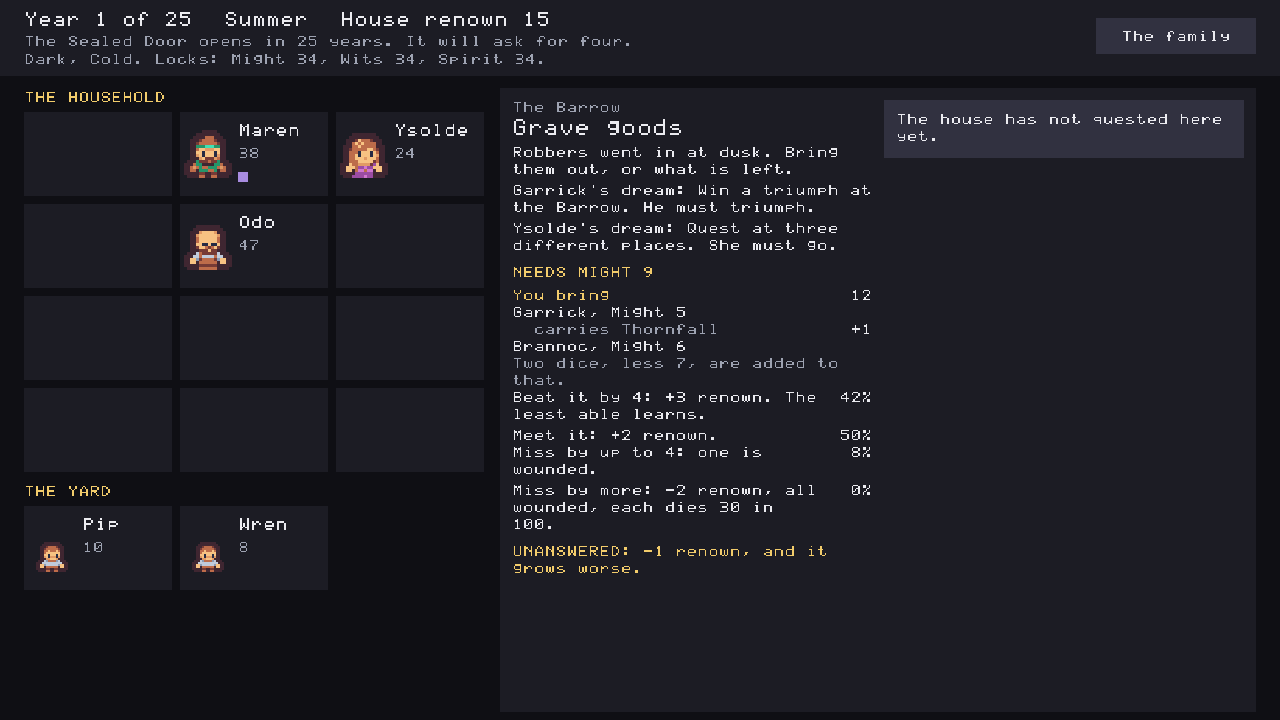
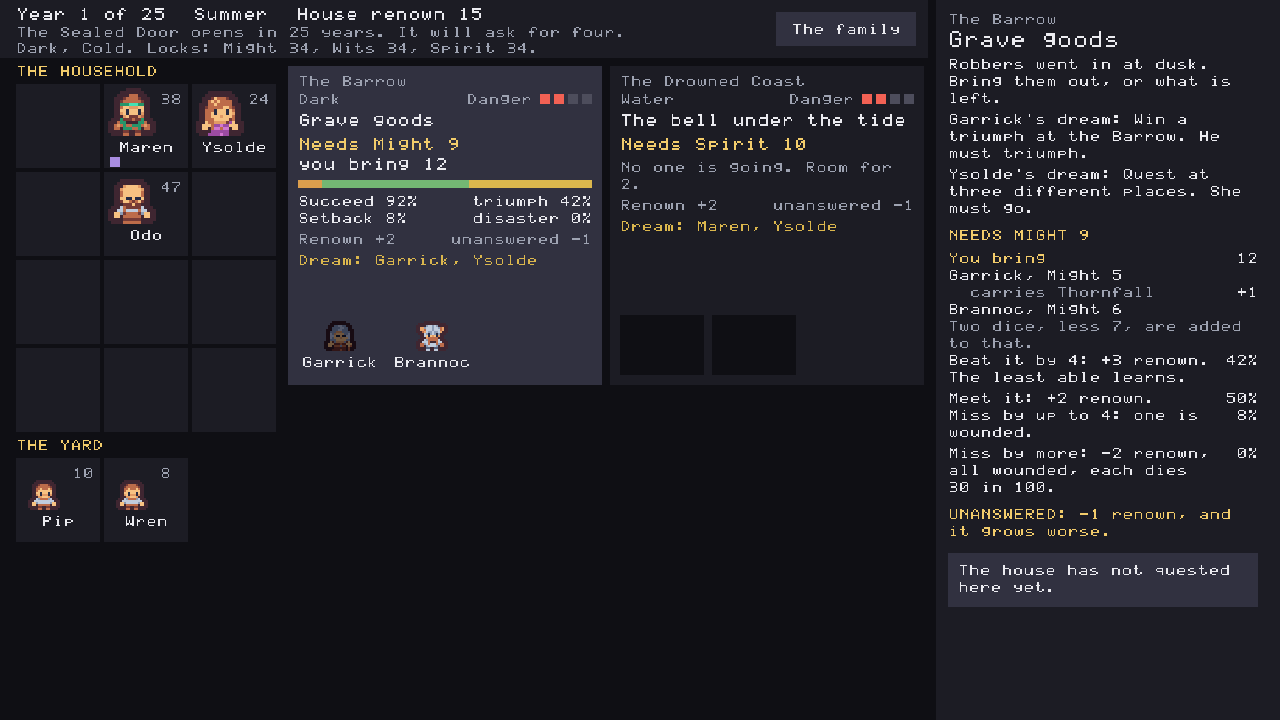
keifu: the dock's pictures, and FINDINGS for the review feedback
Screens re-taken on the docked layout; dock-idle.png and dock-scrolled.png
added. FINDINGS: the game's own notes for the dock (no new G-number, no KG).

Claude-Session: https://claude.ai/code/session_01Y8z4BgRYUwMJK5Qo1RB6Ae

diff --git a/games/keifu/FINDINGS.md b/games/keifu/FINDINGS.md
@@ -511,3 +511,56 @@ camera, the per-session recorder of G-043, the floors' text measurement) they ha
   Round two, the whole list again: **133 of 134 noticed** (tests alone 85, verify alone
   120). **The escape left is equivalent:** K8, "Room for N" told with the calm seats —
   that line shows only on an untroubled quest, where the seats are the calm seats.
+
+---
+
+## W4 review feedback: the sheet dock (owner, 2026-10-01)
+
+Presentation only, outside the spec's jurisdiction: no rule, constant, content string or
+spec file moved, no SPEC-GAPS entry and no new G-number. **Reading discipline:** `CLAUDE.md`,
+the `make-game` skill, the crate whole; from `docs/api/` the `Camera` reference, the
+"layout in constants" passage, `PointerState::scroll` and `InputEvent::Scrolled`. Outside
+the fence, disclosed: `tools/serve-web` and `tools/web-template/index.html`, read to learn
+what canvas the web check gives the page, and a headless Chromium dump of the built page's
+DOM that measured it (640x329 in the check's 640x480 window). **Engine source: not opened.**
+
+### The game's own
+
+- **The sheets have a dock; nothing is raised over anything.** This supersedes session 4's
+  "the board fills the right panel and the sheets are raised over it". The summer screen is
+  four regions that never overlap: the household and yard (cards 84x84, the figure over the
+  name over the dread pips), the board (2x2 cards of 314x319), the top bar over those two
+  (58 px), and the dock — the screen's full height at its right edge, 344 px wide
+  (`summer::SHEET`, `dock.rs`). The dock holds the sheet of the hero pointed at, of the
+  hero *in hand* mid-drag, or of the quest pointed at with its history; with none, the help
+  (which had been squeezed into the board's empty slots and had no home in a full board).
+- **Right, not bottom, and why.** Mid-drag is the critical state, and the card being held
+  over grows during a drag (the live preview adds "you bring", fear and refusal lines) — a
+  bottom dock takes its room from exactly those cards. Both sheets are also a single column
+  of lines, so a tall narrow dock reads and scrolls as a document; a short wide one would
+  have had to flow the sheet into columns that then scroll. Measured before choosing: the
+  longest founding sheet (Garrick) is 50 wrapped rows at 314 px and 42 at 408, so a wider
+  dock buys little.
+- **A long sheet scrolls by whole lines.** `UiState::dock_first` is the first sheet line
+  drawn; a line is drawn whole or not at all, a scrollbar shows above and below, and the
+  wheel, a mouse grab or a finger moves it. Resting on the dock keeps its sheet open; a new
+  subject opens at its top; a hero dropped on the dock returns. A sheet line taller than the
+  dock panics rather than vanish. **The wheel's sign is assumed** (positive lines = wheel
+  away from the player = toward the top); the API document does not say which way
+  `PointerState::scroll` runs. Owner: please confirm in the playtest.
+- **The W1 oracle was layout-coupled.** It read Garrick's whole sheet off one screen, which
+  only held while the sheet fitted its panel. It now pages through the dock with the wheel
+  (`verify::dock_pages`, `dock_read`: each sheet line once, on the page that drew it) and
+  asserts the same twenty lines, the same order, the same bonds and pips, each drawn. No
+  other oracle changed.
+- **Floors at three sizes.** Native 1280x720, the web check's 640x329 canvas, and a 4:3
+  window (1024x768), each with every long sheet paged through and judged per page. The
+  camera now fits the page to the window's shape (`screen::fitted`), so a window narrower
+  than 16:9 shows the whole page instead of cutting the household and dock off its sides.
+  **The floor is in world units.** At 640x329 the 14-unit type is 6.4 device px — session
+  1's "Small windows" finding, unchanged by this work and still a later session's.
+- **Pictures** (`screens/`): `dock-idle.png` (the help in the dock), `w0-w1-garrick.png`
+  (a hero sheet open, scrollbar showing), `w4-quest-sheet.png` (a quest sheet with its
+  history), `w4-drag.png` (Brannoc in hand over "Grave goods": the card's "you bring 12" and
+  his previewed tile, the hand, and his sheet in the dock), `dock-scrolled.png` (Garrick's
+  sheet scrolled to its end); the other W1-W4 screens re-taken on the new layout.
